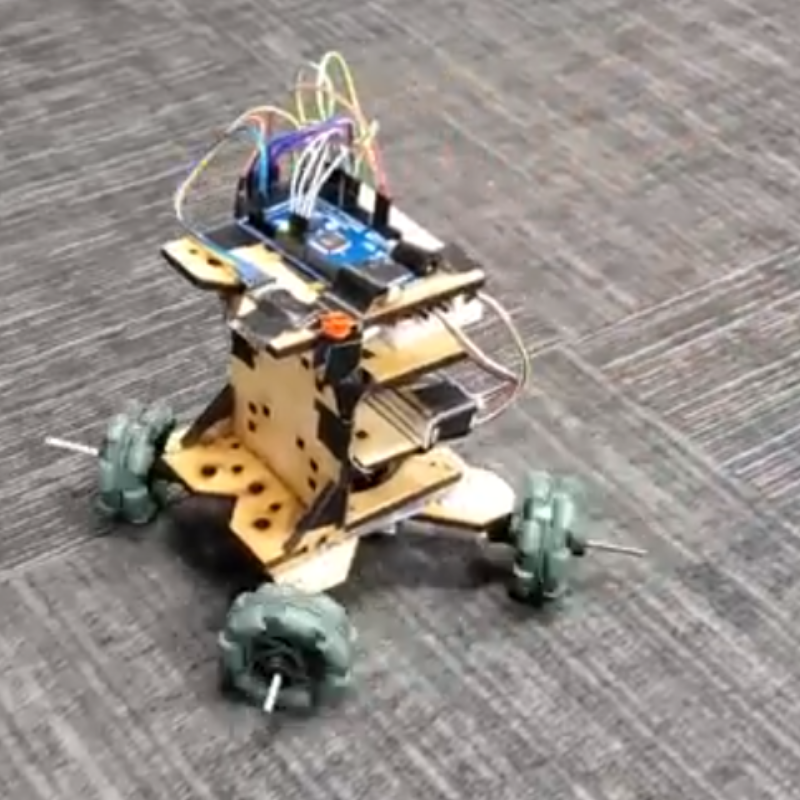
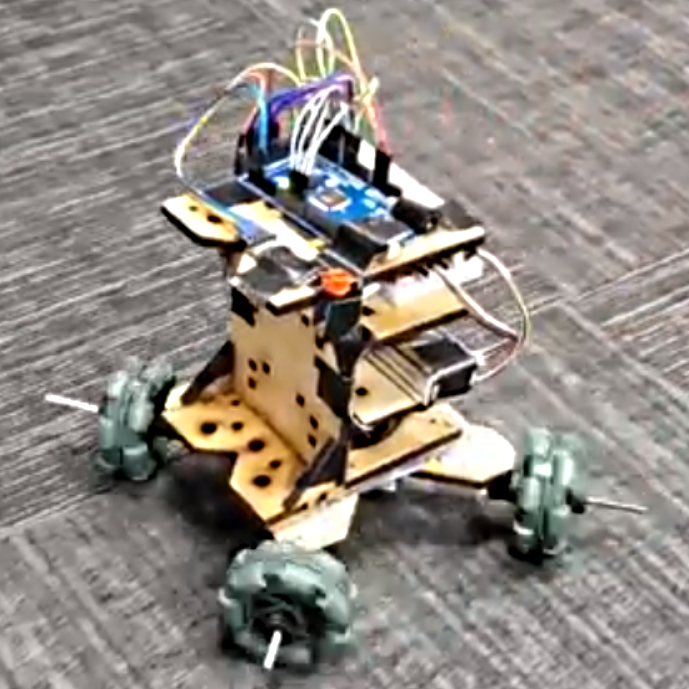
added project photos

diff --git a/about.html b/about.html
@@ -23,18 +23,7 @@
     <div class="aboutContainer">
       <img src='./img/headshot.png' id="headshot">
       <p id="aboutMe">
-        A 3rd year Computer Engineering student with a Mathematics Minor with a strong focus on
-        software. Ever since I wrote my initiation "Hello, World!" function in C, I knew programming
-        was my passion. That may sound gimmicky, but writing code made me feel something I haven't
-        felt before- there was a whole world of possibilities and I was only learning how to do a
-        simple "Print to Console". When I started to move up learning more mathematics, I felt there
-        was so much you can do with the combination- hence why I added a Mathematics Minor.
-        </br>
-        </br>
-        Here I am years later, studying software and hardware and how computers can interact to
-        form amazing creations and move technology to new levels:
-        </br>
-        I want to be a part of that world.
+
       </p>
     </div>
 

diff --git a/projects.html b/projects.html
@@ -23,10 +23,10 @@
     <h1></h1>
     <div class="grid-container">
       <div class="project"><img src="./img/project/carSim.png">Car Simulation</div>
-      <div class="project">TweetMap360</div>
-      <div class="project">"Pi" Robot for IEEE's SouthEastCon</div>
-      <div class="project">Texas Instruments Automatic Pet Feeder</div>
-      <div class="project">AR Tank Game</div>
+      <div class="project"><img src="./img/project/TweetMap.png">TweetMap360</div>
+      <div class="project"><img src="./img/project/PiRobot.png">"Pi" Robot for IEEE's SouthEastCon2020</div>
+      <div class="project"><img src="./img/project/BoneApp.png">Texas Instruments Automatic Pet Feeder</div>
+      <div class="project"><img src="./img/project/ARTank.png">AR Tank Game</div>
     </div>
 
 
